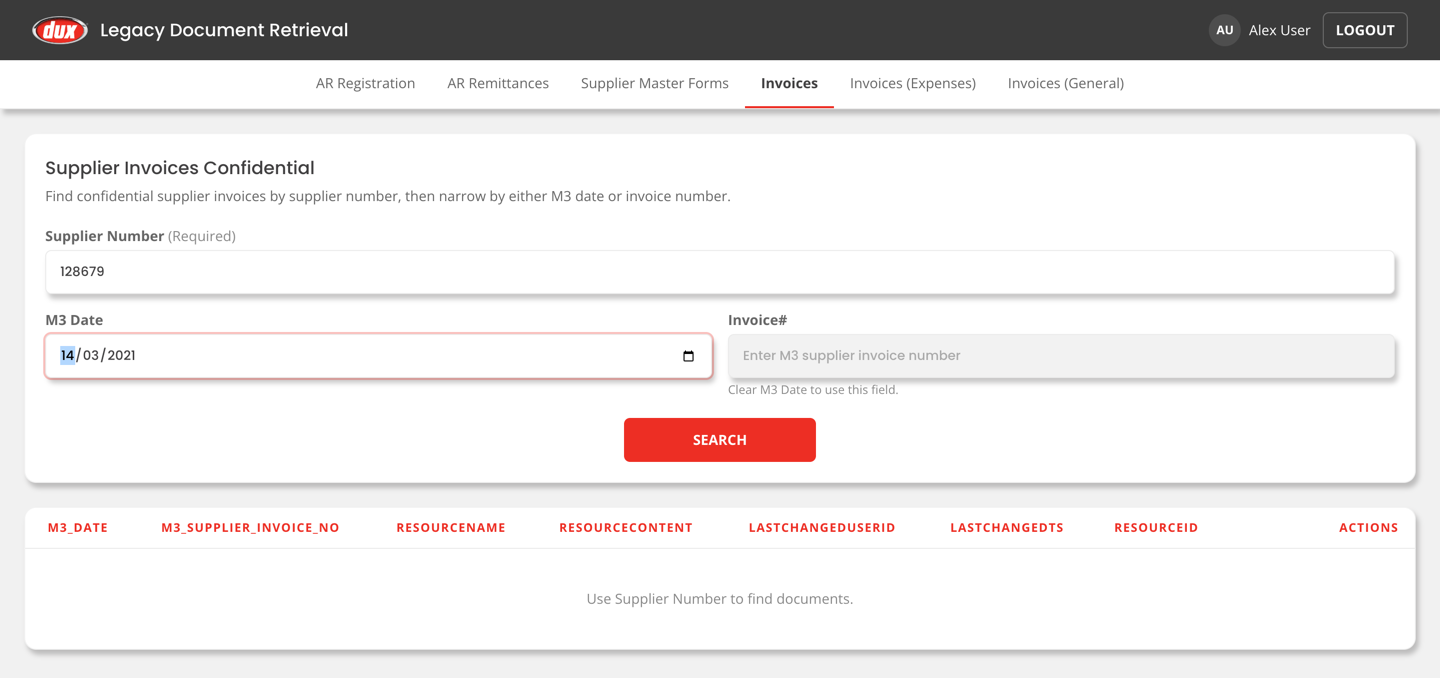
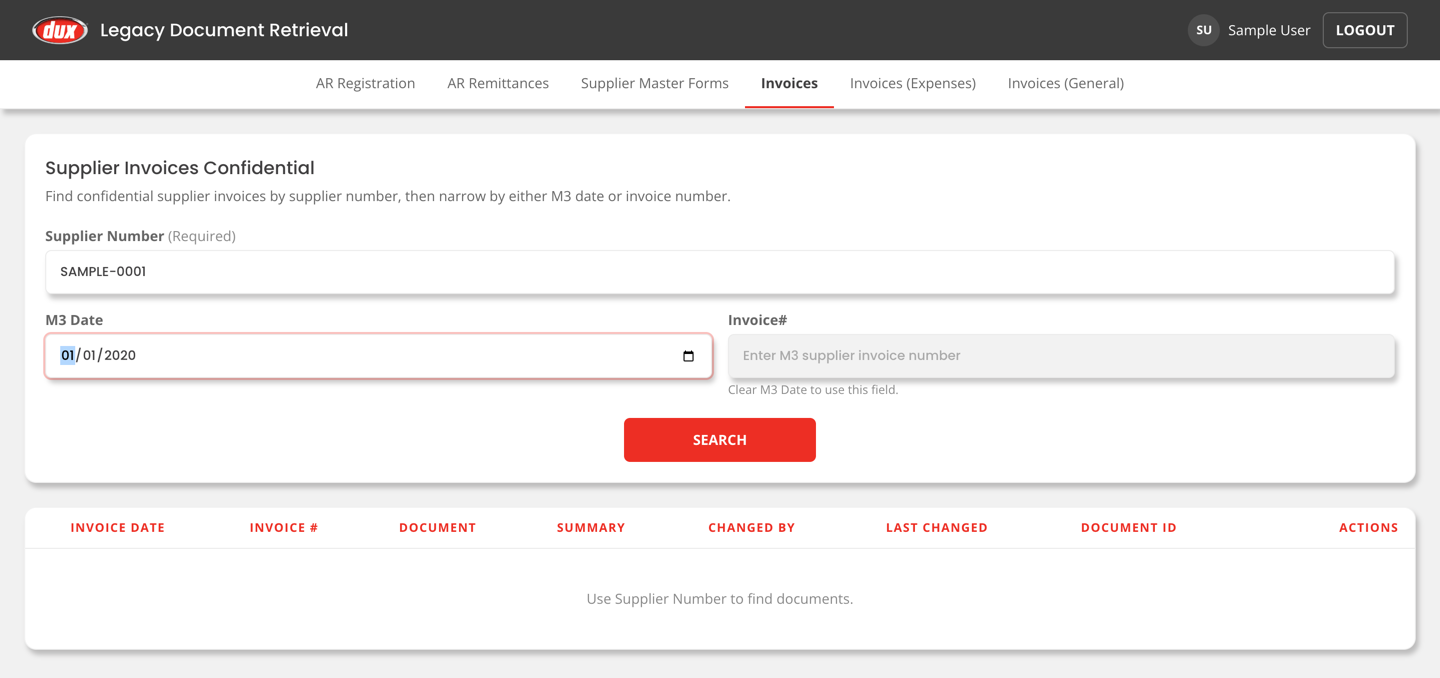
Use readable column headers and placeholder data in screenshots
The results grid rendered raw database column names as its headers
(RESOURCENAME, M3_Supplier_Invoice_No, LASTCHANGEDUSERID). Replace the
display labels with readable ones - Document, Invoice #, Changed By - and
keep the column keys unchanged, so the same columns are still shown and
nothing about the query or the row mapping changes.

Recapture the screenshots with data that reads as placeholder at a glance:
SAMPLE-0001 keys, all-zero document ids, SAMPLE.USER, and a watermarked
specimen document in the viewer.

diff --git a/frontend/src/pages/SupplierInvoicesConfidential.tsx b/frontend/src/pages/SupplierInvoicesConfidential.tsx
@@ -29,13 +29,13 @@ export function SupplierInvoicesConfidential() {
         },
       ]}
       columns={[
-        { key: "M3_Date", label: "M3_Date" },
-        { key: "M3_Supplier_Invoice_No", label: "M3_Supplier_Invoice_No" },
-        { key: "RESOURCENAME", label: "RESOURCENAME" },
-        { key: "RESOURCECONTENT", label: "RESOURCECONTENT" },
-        { key: "LASTCHANGEDUSERID", label: "LASTCHANGEDUSERID" },
-        { key: "LASTCHANGEDTS", label: "LASTCHANGEDTS" },
-        { key: "RESOURCEID", label: "RESOURCEID" },
+        { key: "M3_Date", label: "Invoice Date" },
+        { key: "M3_Supplier_Invoice_No", label: "Invoice #" },
+        { key: "RESOURCENAME", label: "Document" },
+        { key: "RESOURCECONTENT", label: "Summary" },
+        { key: "LASTCHANGEDUSERID", label: "Changed By" },
+        { key: "LASTCHANGEDTS", label: "Last Changed" },
+        { key: "RESOURCEID", label: "Document ID" },
       ]}
     />
   );

diff --git a/frontend/src/pages/SupplierInvoicesExpenses.tsx b/frontend/src/pages/SupplierInvoicesExpenses.tsx
@@ -29,13 +29,13 @@ export function SupplierInvoicesExpenses() {
         },
       ]}
       columns={[
-        { key: "M3_Date", label: "M3_Date" },
-        { key: "M3_Supplier_Invoice_No", label: "M3_Supplier_Invoice_No" },
-        { key: "RESOURCENAME", label: "RESOURCENAME" },
-        { key: "RESOURCECONTENT", label: "RESOURCECONTENT" },
-        { key: "LASTCHANGEDUSERID", label: "LASTCHANGEDUSERID" },
-        { key: "LASTCHANGEDTS", label: "LASTCHANGEDTS" },
-        { key: "RESOURCEID", label: "RESOURCEID" },
+        { key: "M3_Date", label: "Invoice Date" },
+        { key: "M3_Supplier_Invoice_No", label: "Invoice #" },
+        { key: "RESOURCENAME", label: "Document" },
+        { key: "RESOURCECONTENT", label: "Summary" },
+        { key: "LASTCHANGEDUSERID", label: "Changed By" },
+        { key: "LASTCHANGEDTS", label: "Last Changed" },
+        { key: "RESOURCEID", label: "Document ID" },
       ]}
     />
   );

diff --git a/frontend/src/pages/SupplierInvoicesGeneral.tsx b/frontend/src/pages/SupplierInvoicesGeneral.tsx
@@ -29,13 +29,13 @@ export function SupplierInvoicesGeneral() {
         },
       ]}
       columns={[
-        { key: "M3_Date", label: "M3_Date" },
-        { key: "M3_Supplier_Invoice_No", label: "M3_Supplier_Invoice_No" },
-        { key: "RESOURCENAME", label: "RESOURCENAME" },
-        { key: "RESOURCECONTENT", label: "RESOURCECONTENT" },
-        { key: "LASTCHANGEDUSERID", label: "LASTCHANGEDUSERID" },
-        { key: "LASTCHANGEDTS", label: "LASTCHANGEDTS" },
-        { key: "RESOURCEID", label: "RESOURCEID" },
+        { key: "M3_Date", label: "Invoice Date" },
+        { key: "M3_Supplier_Invoice_No", label: "Invoice #" },
+        { key: "RESOURCENAME", label: "Document" },
+        { key: "RESOURCECONTENT", label: "Summary" },
+        { key: "LASTCHANGEDUSERID", label: "Changed By" },
+        { key: "LASTCHANGEDTS", label: "Last Changed" },
+        { key: "RESOURCEID", label: "Document ID" },
       ]}
     />
   );

diff --git a/frontend/src/pages/ArRemittances.tsx b/frontend/src/pages/ArRemittances.tsx
@@ -29,12 +29,12 @@ export function ArRemittances() {
         },
       ]}
       columns={[
-        { key: "Payment#", label: "Payment#" },
-        { key: "CREATETS", label: "CREATETS" },
-        { key: "RESOURCENAME", label: "RESOURCENAME" },
-        { key: "RESOURCECONTENT", label: "RESOURCECONTENT" },
-        { key: "LASTCHANGEDUSERID", label: "LASTCHANGEDUSERID" },
-        { key: "RESOURCEID", label: "RESOURCEID" },
+        { key: "Payment#", label: "Payment #" },
+        { key: "CREATETS", label: "Created" },
+        { key: "RESOURCENAME", label: "Document" },
+        { key: "RESOURCECONTENT", label: "Summary" },
+        { key: "LASTCHANGEDUSERID", label: "Changed By" },
+        { key: "RESOURCEID", label: "Document ID" },
       ]}
     />
   );

diff --git a/frontend/src/pages/ArRegistration.tsx b/frontend/src/pages/ArRegistration.tsx
@@ -15,10 +15,10 @@ export function ArRegistration() {
         },
       ]}
       columns={[
-        { key: "RESOURCENAME", label: "RESOURCENAME", width: "5rem" },
-        { key: "RESOURCECONTENT", label: "RESOURCECONTENT", width: "20rem" },
-        { key: "LASTCHANGEDUSERID", label: "LASTCHANGEDUSERID", width: "5rem" },
-        { key: "RESOURCEID", label: "RESOURCEID", width: "5rem" },
+        { key: "RESOURCENAME", label: "Document", width: "5rem" },
+        { key: "RESOURCECONTENT", label: "Summary", width: "20rem" },
+        { key: "LASTCHANGEDUSERID", label: "Changed By", width: "5rem" },
+        { key: "RESOURCEID", label: "Document ID", width: "5rem" },
       ]}
     />
   );

diff --git a/frontend/src/pages/SupplierMasterForms.tsx b/frontend/src/pages/SupplierMasterForms.tsx
@@ -15,11 +15,11 @@ export function SupplierMasterForms() {
         },
       ]}
       columns={[
-        { key: "RESOURCENAME", label: "RESOURCENAME" },
-        { key: "RESOURCECONTENT", label: "RESOURCECONTENT" },
-        { key: "LASTCHANGEDUSERID", label: "LASTCHANGEDUSERID" },
-        { key: "LASTCHANGEDTS", label: "LASTCHANGEDTS" },
-        { key: "RESOURCEID", label: "RESOURCEID" },
+        { key: "RESOURCENAME", label: "Document" },
+        { key: "RESOURCECONTENT", label: "Summary" },
+        { key: "LASTCHANGEDUSERID", label: "Changed By" },
+        { key: "LASTCHANGEDTS", label: "Last Changed" },
+        { key: "RESOURCEID", label: "Document ID" },
       ]}
     />
   );

diff --git a/README.md b/README.md
@@ -76,7 +76,7 @@ returns to the results list with the search and its results intact.
 
 <img src="docs/screenshots/06-document-viewer.png" width="900" alt="PDF document viewer overlay" />
 
-> All data shown above is fabricated for documentation. See [Screenshots](#screenshots).
+> Every value shown above is placeholder data. See [Screenshots](#screenshots).
 
 ---
 
@@ -307,9 +307,14 @@ pair are all ignored by git.
 
 ## Screenshots
 
-The screenshots in `docs/screenshots/` are captured from the real frontend driven by
-Playwright, against a stub API that returns fabricated rows. Every supplier, invoice number,
-amount and person in them is invented; none of it comes from the production archive.
+The screenshots in `docs/screenshots/` are captured from the real running frontend, driven
+by Playwright against a stub API that serves placeholder rows — not from the production
+system and not from mockups.
+
+Every value in them is a deliberate placeholder: supplier and invoice numbers are
+`SAMPLE-0001`, document ids are all-zero GUIDs, the signed-in user is `Sample User`, and the
+document in the viewer is a watermarked specimen. Nothing in the archive, and no real
+supplier, customer, amount or person, appears anywhere in them.
 
 ---
 
